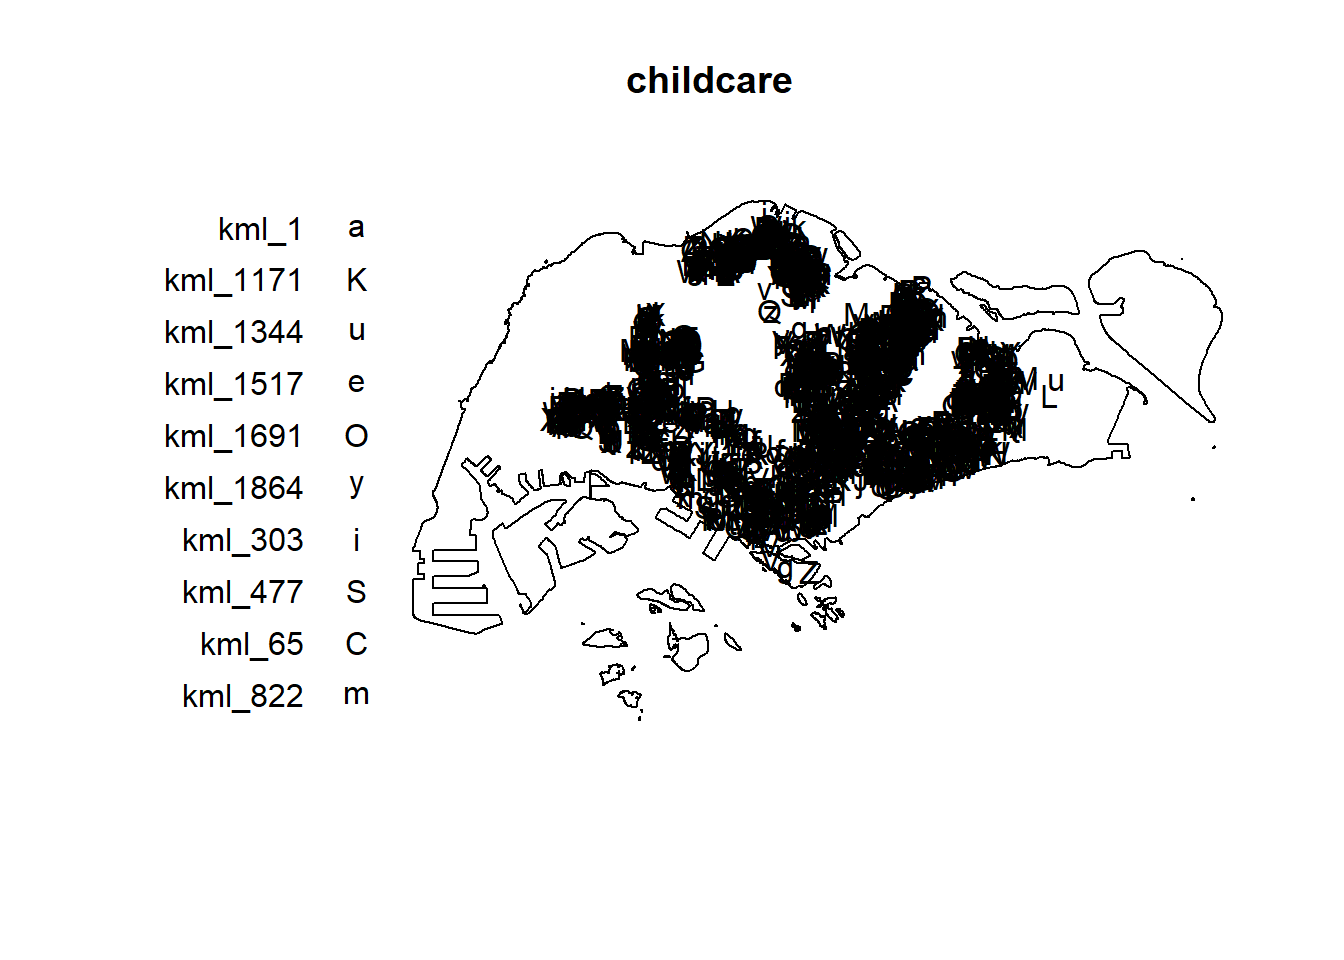
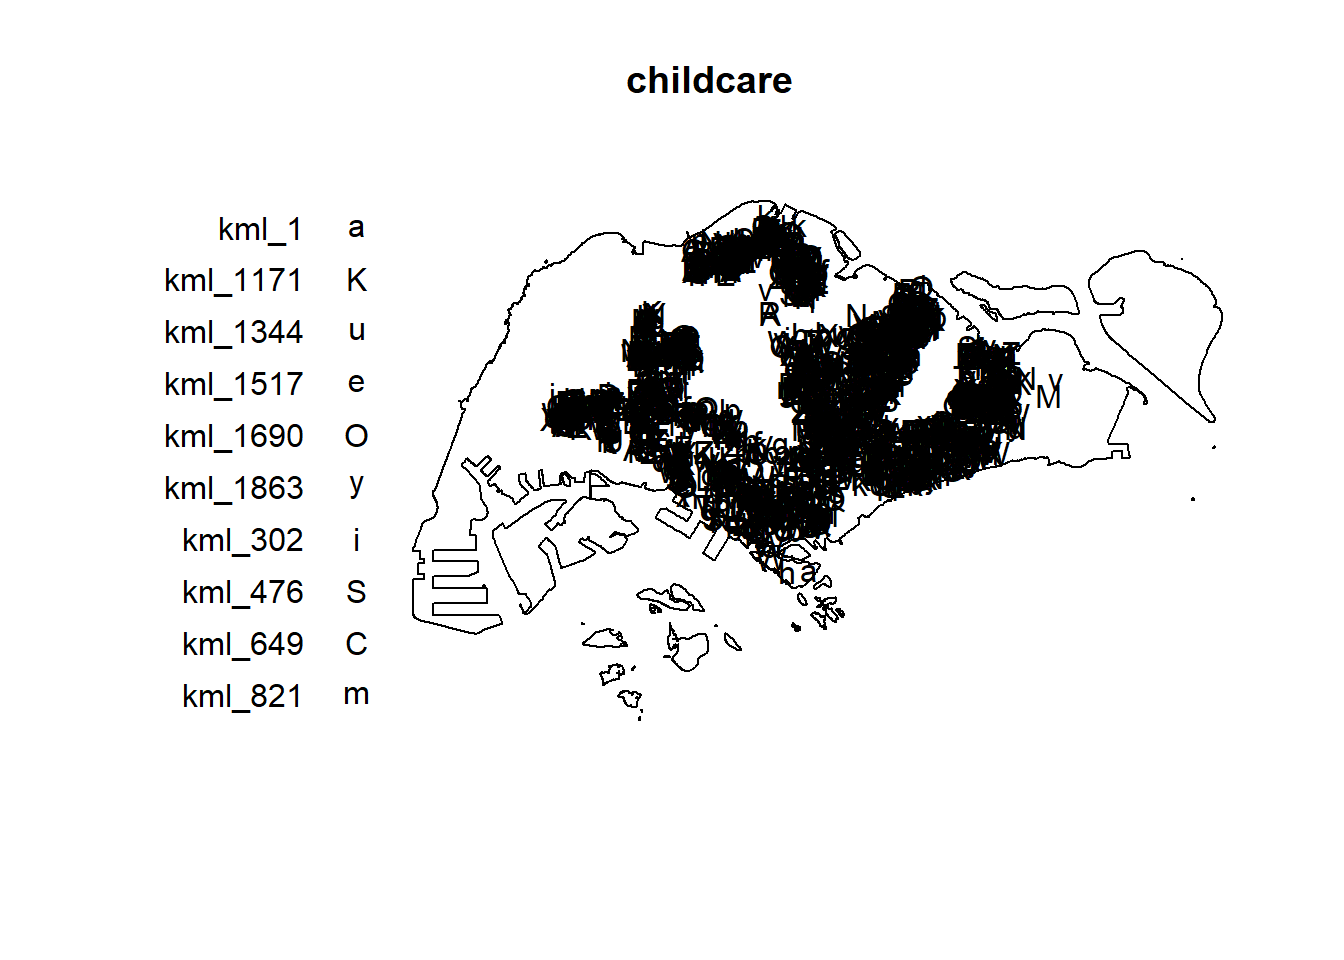
Update

diff --git a/_site/In-Class_Ex/In-class_Ex03/In-class_Ex03.html b/_site/In-Class_Ex/In-class_Ex03/In-class_Ex03.html
@@ -383,9 +383,9 @@ Note
 </div>
 </div>
 <div class="cell">
-<div class="sourceCode cell-code" id="cb16"><pre class="sourceCode r code-with-copy"><code class="sourceCode r"><span id="cb16-1"><a href="#cb16-1" aria-hidden="true" tabindex="-1"></a><span class="fu">sum</span>(<span class="fu">multiplicity</span>((<span class="fu">duplicated</span>(childcare_ppp))) <span class="sc">&gt;</span> <span class="dv">1</span>)</span></code><button title="Copy to Clipboard" class="code-copy-button"><i class="bi"></i></button></pre></div>
+<div class="sourceCode cell-code" id="cb16"><pre class="sourceCode r code-with-copy"><code class="sourceCode r"><span id="cb16-1"><a href="#cb16-1" aria-hidden="true" tabindex="-1"></a><span class="fu">sum</span>(<span class="fu">multiplicity</span>((childcare_ppp)) <span class="sc">&gt;</span> <span class="dv">1</span>)</span></code><button title="Copy to Clipboard" class="code-copy-button"><i class="bi"></i></button></pre></div>
 <div class="cell-output cell-output-stdout">
-<pre><code>[1] 1925</code></pre>
+<pre><code>[1] 0</code></pre>
 </div>
 </div>
 <div class="cell">

diff --git a/_site/index.html b/_site/index.html
@@ -449,7 +449,7 @@ Wan Shen
 </a>
 </div>
 </div>
-<div class="quarto-post image-right" data-index="7" data-categories="In-Class Exercise" data-listing-date-sort="1705852800000" data-listing-file-modified-sort="1705887637881" data-listing-date-modified-sort="NaN" data-listing-reading-time-sort="2">
+<div class="quarto-post image-right" data-index="7" data-categories="In-Class Exercise" data-listing-date-sort="1705852800000" data-listing-file-modified-sort="1705888783815" data-listing-date-modified-sort="NaN" data-listing-reading-time-sort="2">
 <div class="thumbnail">
 <p><a href="./In-class_Ex/In-class_Ex03/In-class_Ex03.html"> <p class="card-img-top"><img src="In-class_Ex\In-class_Ex03\In-class_Ex03_files\figure-html\unnamed-chunk-4-1.png"  class="thumbnail-image card-img"/></p> </a></p>
 </div>
